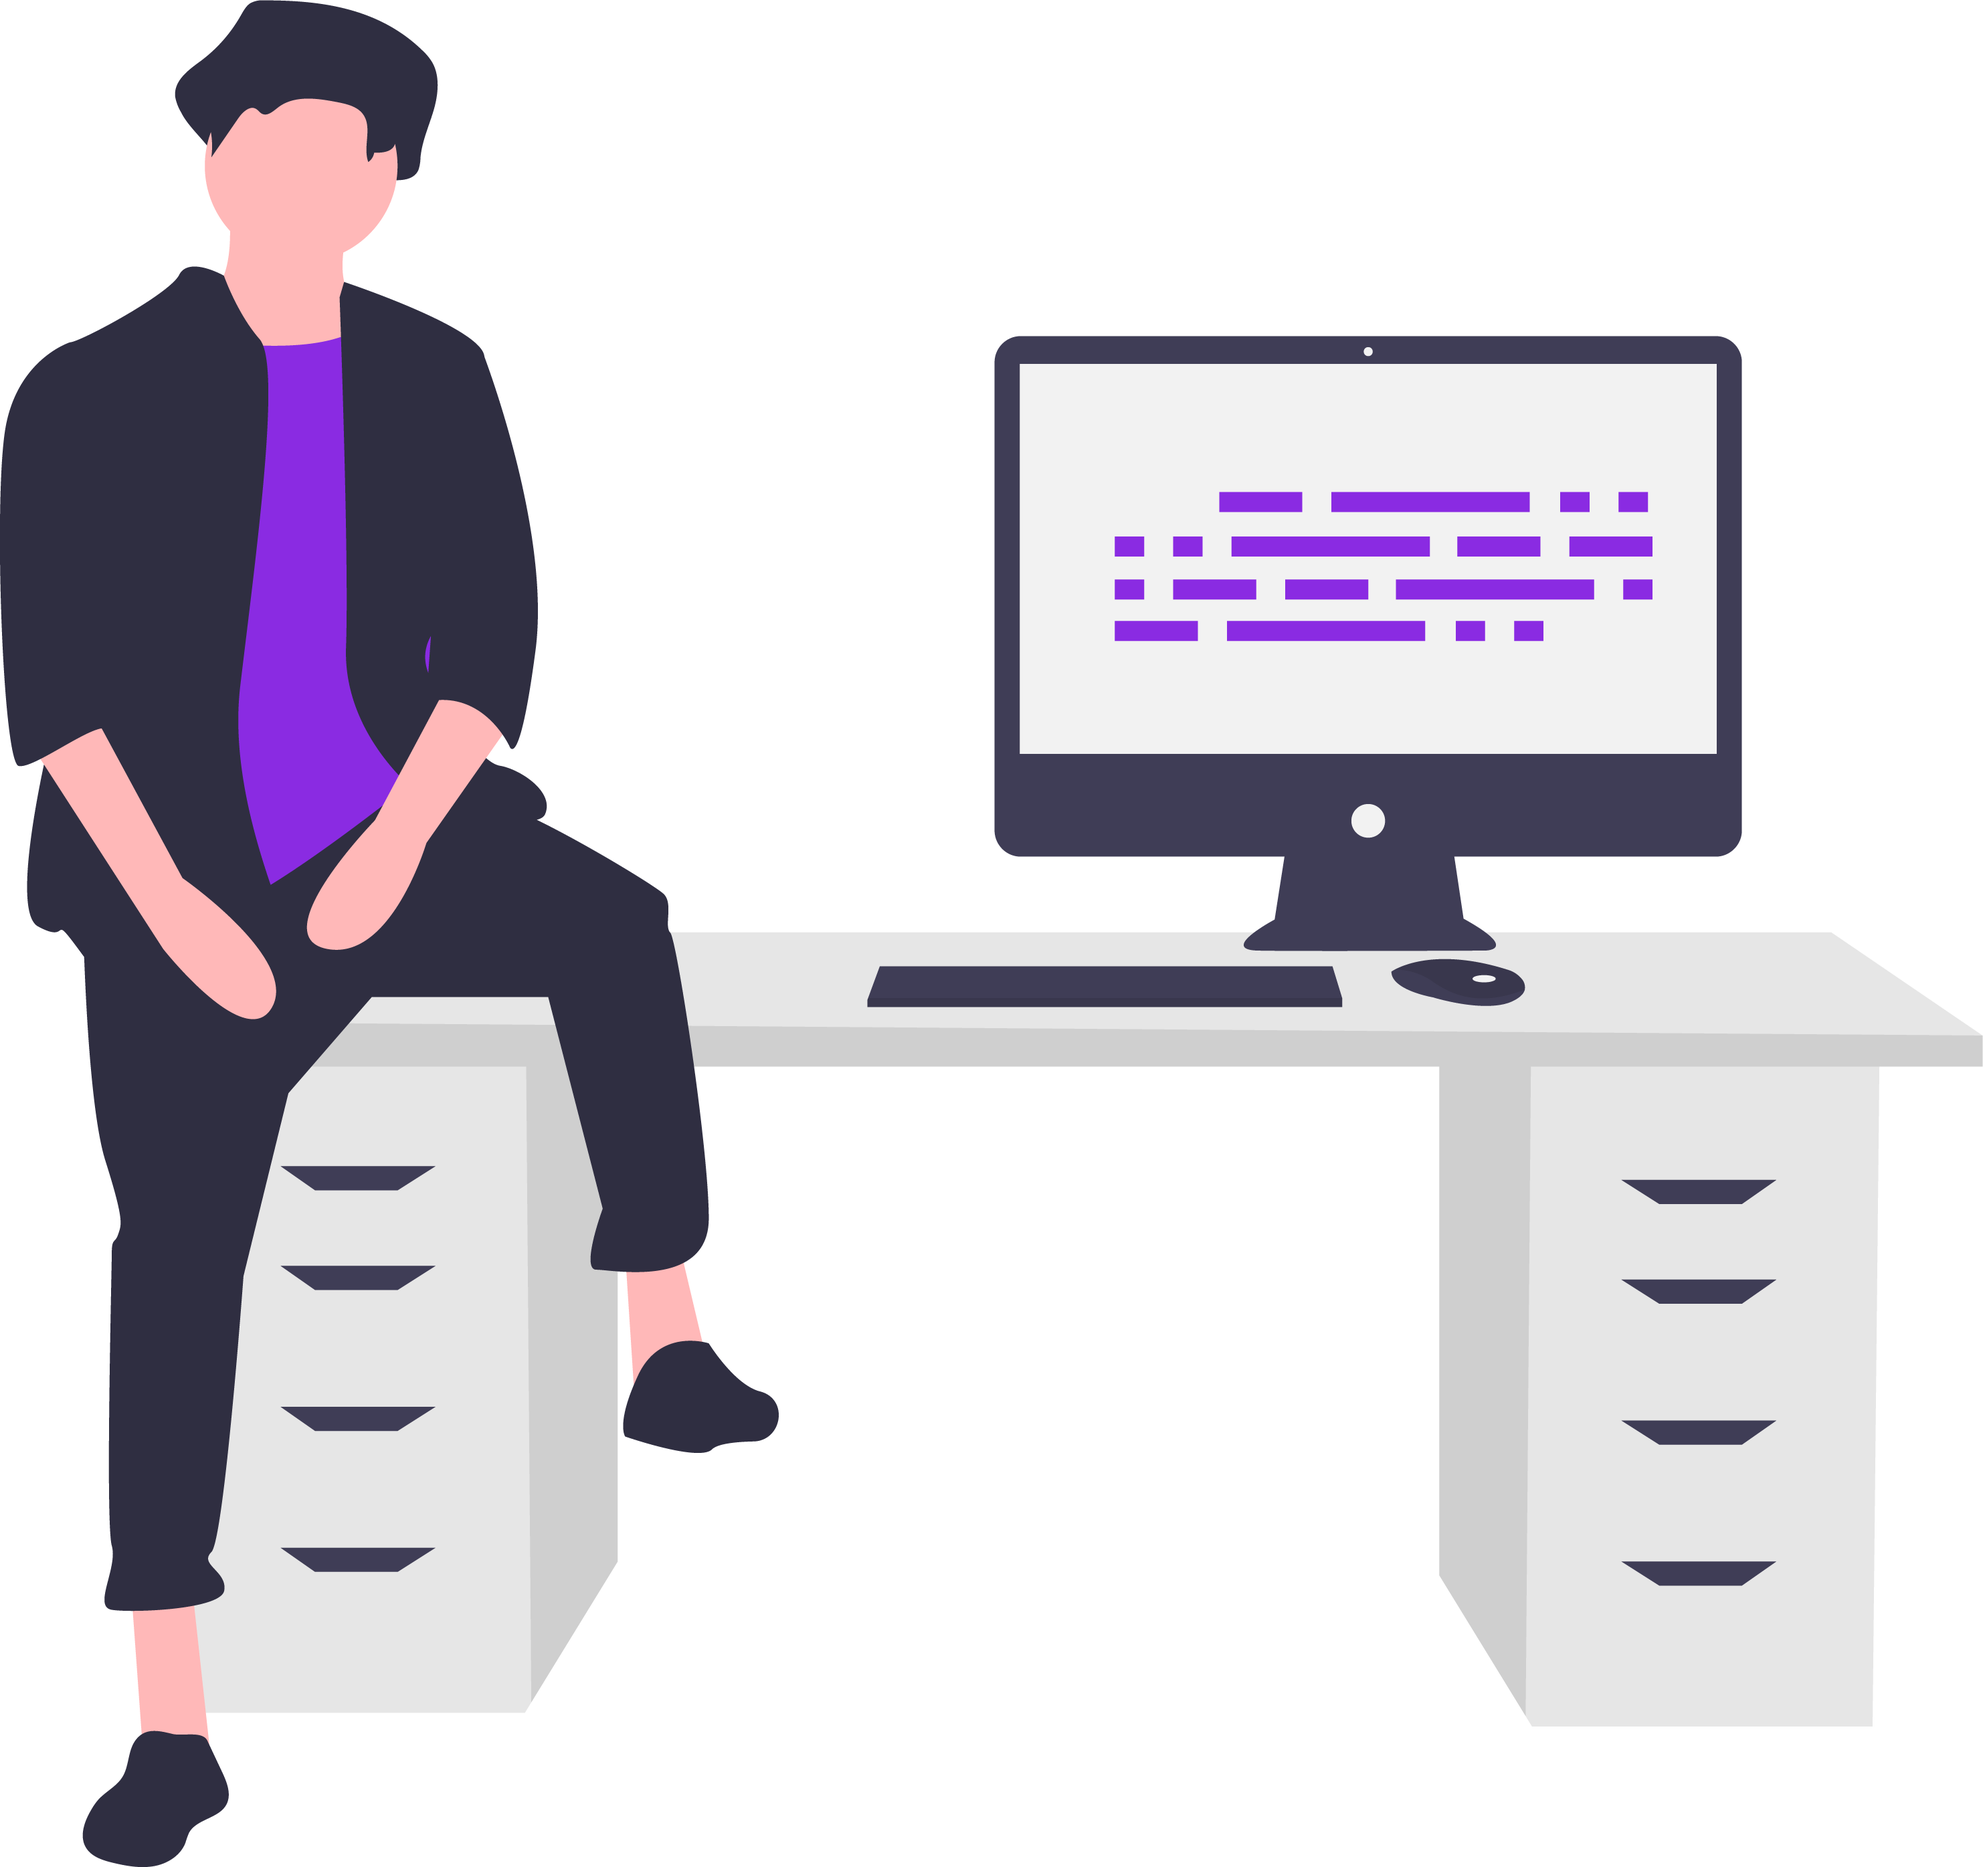
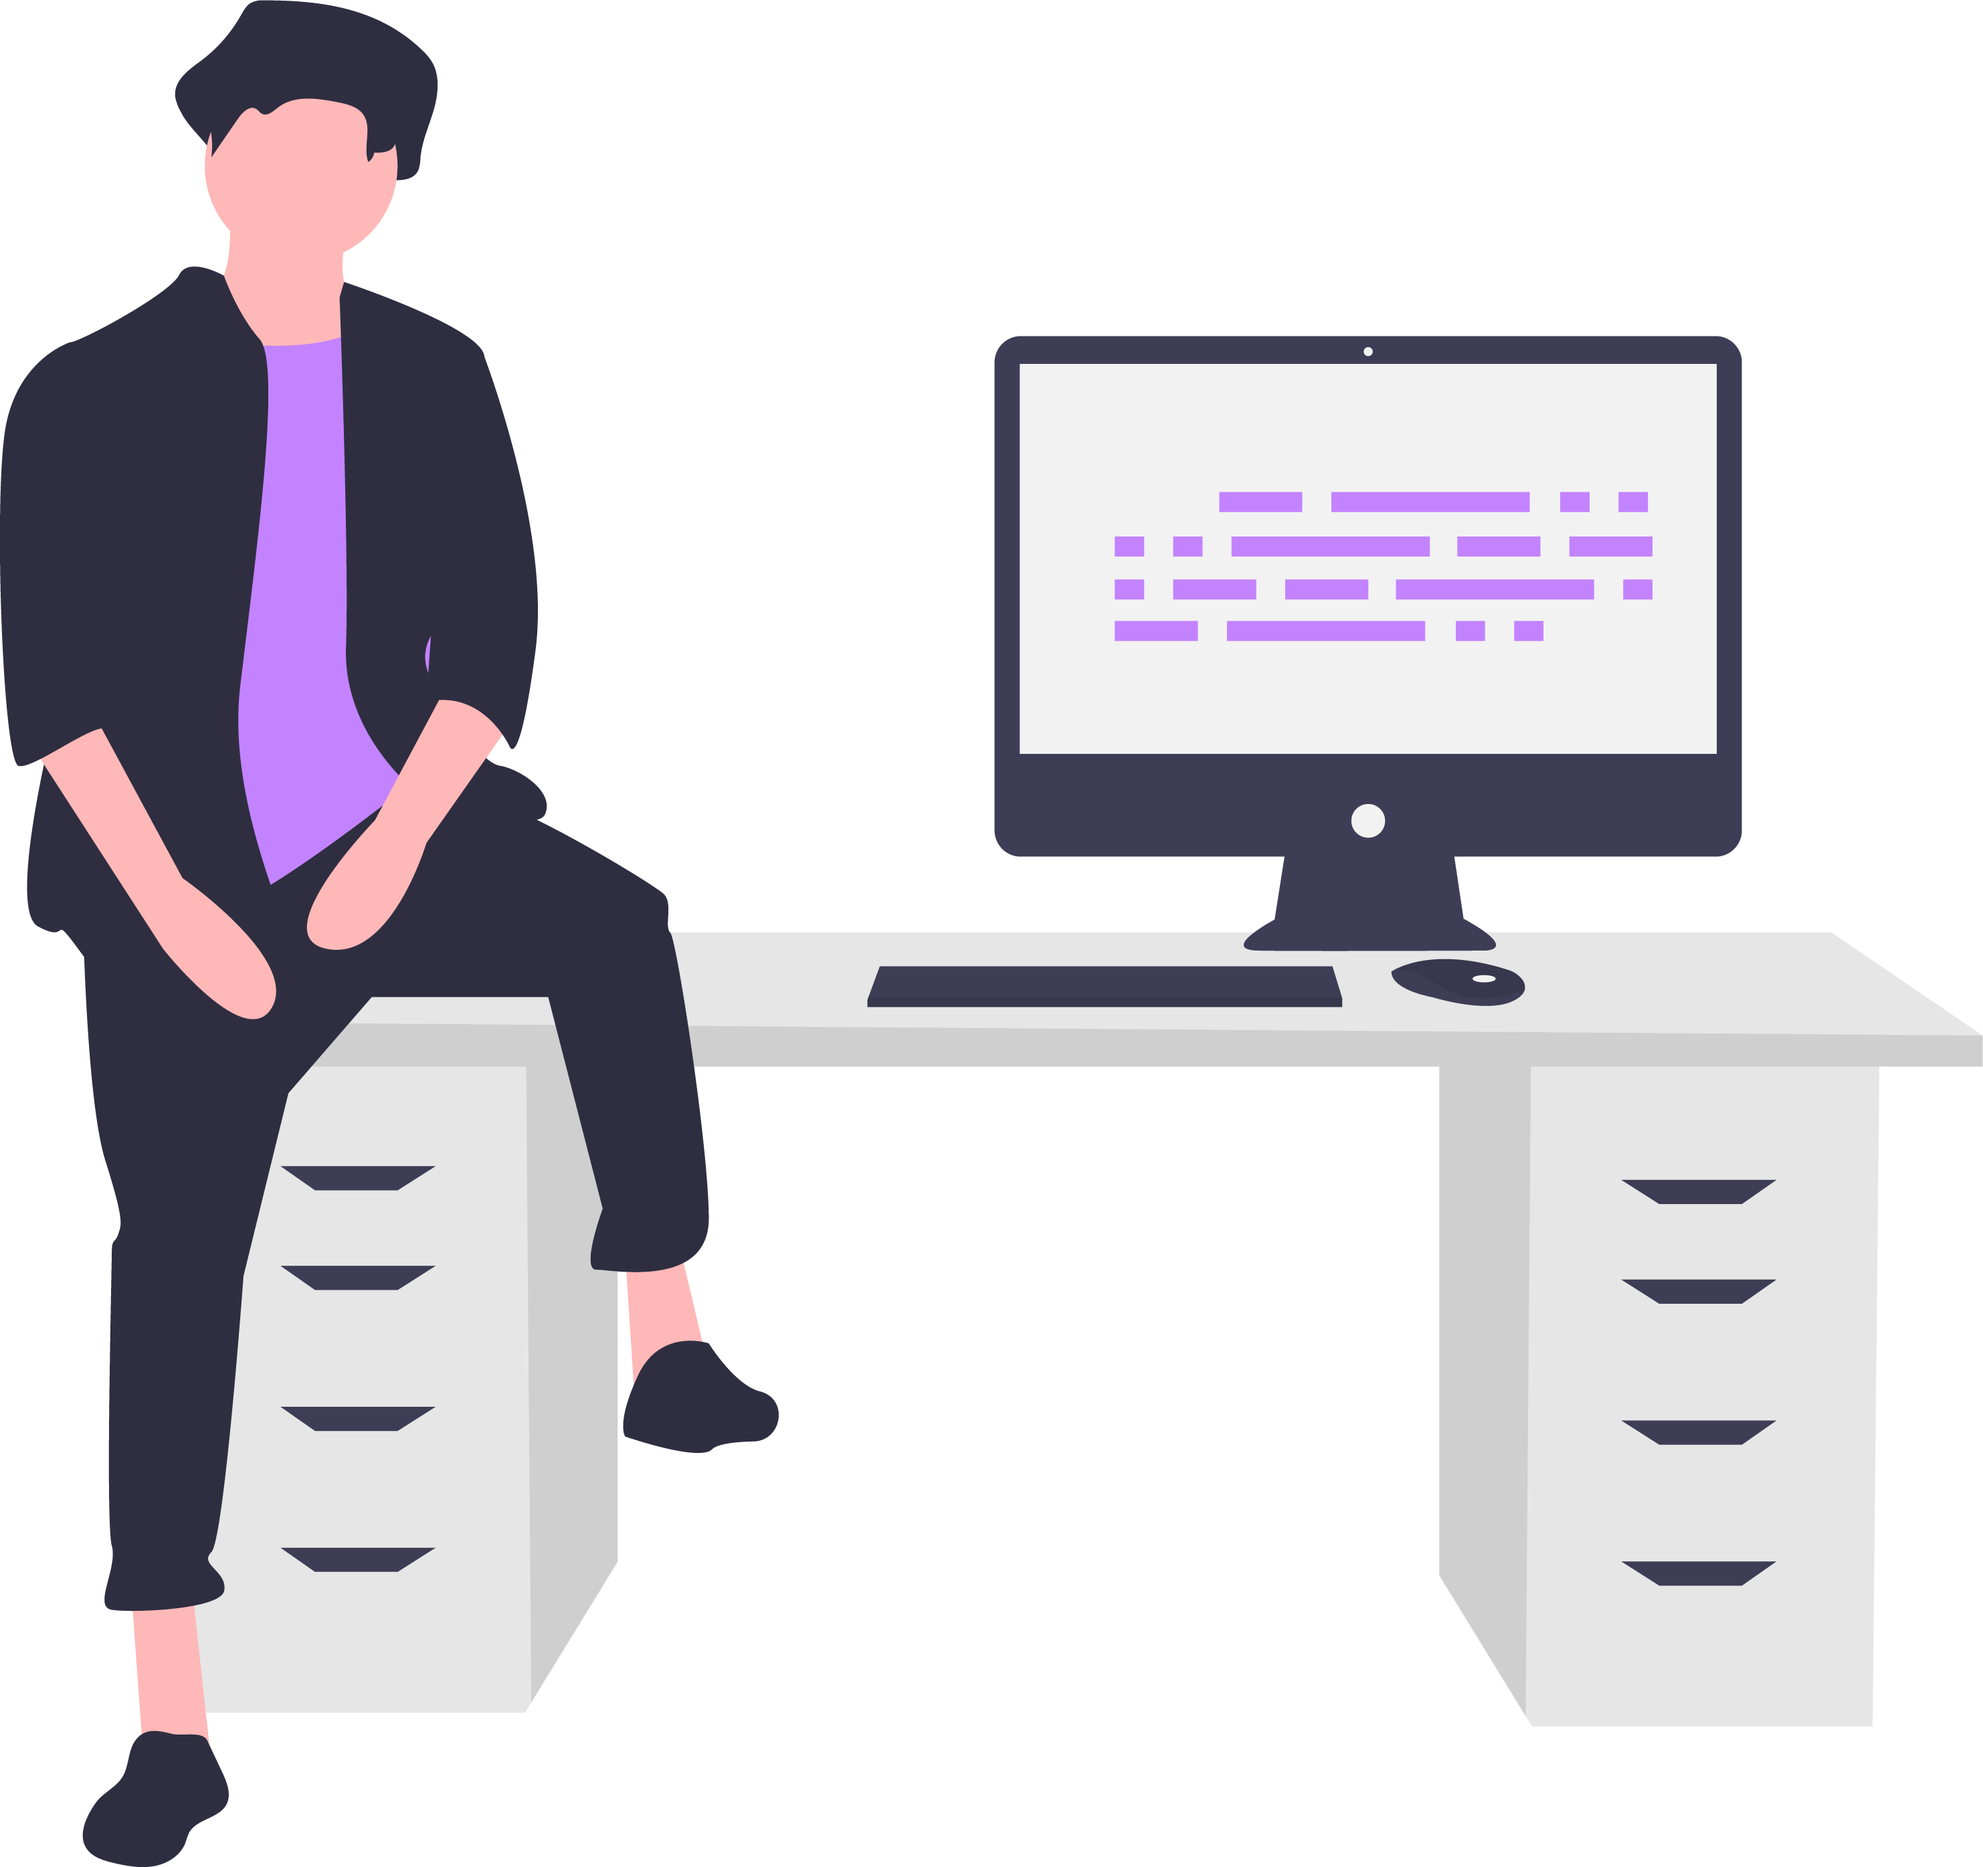
Dark mode 3.0

Changed region(s): [[0.5587, 0.2494, 0.8381, 0.3429], [0.0931, 0.187, 0.2173, 0.4676]]

diff --git a/assets/style.css b/assets/style.css
@@ -1,5 +1,10 @@
 html{
+    background-color: #202020 !important;
     font-family: 'Work Sans', sans-serif;    ;
+}
+
+.bg{
+    background-color: #202020 !important;
 }
 
 body .container{
@@ -8,7 +13,7 @@ body .container{
 }
 
 .navbar > .navbar-brand{
-    color: #8A2BE2 !important;
+    color: #c383ff !important;
     font-size: 25px;
 }
 
@@ -19,6 +24,7 @@ body .container{
 }
 
 .isi h1{
+    color: #b3b9c3 !important;
     animation: fade 3s;
     margin-top: 2em !important;
 }
@@ -26,21 +32,22 @@ body .container{
 .isi p{
     animation: fade 5s;
     margin-top: 20px;
-    color: #3f3f3f !important;
+    color: #abb4c3 !important;
 }
 
 .isi .link{
     animation: fade 7s;
     display: inline-block;
     margin-top: 20px;
-    color: white;
+    color: #202020;
     border-radius: 3px;
     text-decoration: none !important;
     padding: 10px;
-    background-color: #8A2BE2;
+    background-color: #c383ff;
 }
 
 .isi .link:hover{
+    color: #fff;
     background-color: #6521a5;
 }
 
@@ -61,6 +68,7 @@ body .container{
 }
 
 .isi .pdn{
+    color: #b3b9c5 !important;
     margin-top: 30px;
     font-size: 30px;
     font-weight: bold;
@@ -69,8 +77,12 @@ body .container{
 .isi .contact{
     font-size: 20px;
     font-weight: 400;
-    color: #8A2BE2 !important;
+    color: #5183f5 !important;
     text-decoration: none;
+}
+
+.isi .contact:hover{
+    color: #ffffff !important;
 }
 
 hr{
@@ -85,12 +97,26 @@ hr{
 }
 
 .ungu{
-    color: #8A2BE2 !important;
+    color: #c383ff !important;
 }
 
 a{
     text-decoration: none;
 }
+
+.daftar {
+    list-style: none;
+}
+  
+.daftar li::before{
+    content: "\2022";
+    color: #c383ff;
+    font-weight: bold;
+    position: absolute;
+    width: 1em;
+    margin-left: -1em;
+}
+
 
 @media(min-width:992px){
     /*

diff --git a/contact/index.html b/contact/index.html
@@ -16,10 +16,10 @@
         <title>Kontak Saya</title>
     </head>
 
-    <body>
+    <body class="bg">
 
         <div class="container">
-            <nav class="navbar navbar-expand-lg navbar-light">
+            <nav class="navbar navbar-expand-lg navbar-dark">
                 <a class="navbar-brand judul font-weight-bold" href="/">~/ronhyun</a>
                     <button class="navbar-toggler" type="button" data-toggle="collapse" data-target="#navbarNavDropdown" aria-controls="navbarNavDropdown" aria-expanded="false" aria-label="Toggle navigation">
                         <span class="navbar-toggler-icon"></span>
@@ -42,17 +42,17 @@
             <h1 class="w-75 pl-3 head">Kontak Saya</h1>
             <p class="w-75 pl-3 desc">Jika ingin menghubungi saya, silakan hubungi saya melalui: </p>
 
-            <ul class="w-75 pl-5">
+            <ul class="w-75 pl-5 daftar">
                 <li>
                     <a class="contact desc" target="_blank" href="mailto:ronhyun@protonmail.com">Email</a>
                 </li>
 
                 <li>
-                    <a class="contact" target="_blank" href="https://t.me/ronhyun">Telegram</a>
+                    <a class="contact desc" target="_blank" href="https://t.me/ronhyun">Telegram</a>
                 </li>
 
                 <li>
-                    <a class="contact" target="_blank" href="https://twitter.com/ronhyun_">Twitter</a>
+                    <a class="contact desc" target="_blank" href="https://twitter.com/ronhyun_">Twitter</a>
                 </li>
             </ul>
             <p class="pl-3 desc font-weight-bold">Mohon untuk tidak melakukan spam, terima kasih 😁</p>

diff --git a/about/index.html b/about/index.html
@@ -16,10 +16,10 @@
         <title>Tentang Saya</title>
     </head>
 
-    <body>
+    <body class="bg">
 
         <div class="container">
-            <nav class="navbar navbar-expand-lg navbar-light">
+            <nav class="navbar navbar-expand-lg navbar-dark">
                 <a class="navbar-brand judul font-weight-bold" href="/">~/ronhyun</a>
                     <button class="navbar-toggler" type="button" data-toggle="collapse" data-target="#navbarNavDropdown" aria-controls="navbarNavDropdown" aria-expanded="false" aria-label="Toggle navigation">
                         <span class="navbar-toggler-icon"></span>
@@ -47,7 +47,7 @@
         
             <h2 class="w-75 pl-3 pdn">Pendidikan</h2>
             <hr class="ml-3" align="left">
-            <ul class="pl-5">
+            <ul class="pl-5 daftar">
                 <li>
                     <p class="font-weight-bold">STMIK Dharma Putra</p>
                     <p>2019-2023</p>
@@ -61,14 +61,14 @@
 
             <h2 class="w-75 pl-3 pdn">Pengalaman Kerja</h2>
             <hr class="ml-3" align="left">
-            <ul class="pl-5">
+            <ul class="pl-5 daftar">
                 <li>
                     <p class="font-weight-bold">Belum ada.</p>
                 </li>
             </ul>
             <h2 class="w-75 pl-3 pdn ">Serba-Serbi yang Dipakai</h2>
             <hr class="ml-3" align="left">
-            <ul class="pl-5">
+            <ul class="pl-5 daftar">
                 <li>
                     <p>Text Editor: Visual Studio Code</p>
                 </li>

diff --git a/index.html b/index.html
@@ -19,7 +19,7 @@
     <body class="bg">
 
         <div class="container">
-            <nav class="navbar navbar-expand-lg navbar-light">
+            <nav class="navbar navbar-expand-lg navbar-dark">
                 <a class="navbar-brand judul font-weight-bold" href="/">~/ronhyun</a>
                     <button class="navbar-toggler" type="button" data-toggle="collapse" data-target="#navbarNavDropdown" aria-controls="navbarNavDropdown" aria-expanded="false" aria-label="Toggle navigation">
                         <span class="navbar-toggler-icon"></span>
@@ -41,7 +41,7 @@
         <div class="container isi">
             <div class="row">
               <div class="col-md-6">
-                <h1 class="w-75 ml-3 head">Halo, Saya <span class="ungu">Ronaldi Chandra</span></h1>
+                <h1 class="ml-3 head">Halo, Saya <span class="ungu">Ronaldi Chandra</span></h1>
                 <p class="w-75 ml-3 desc">Saya suka menulis kode tetapi terkadang tidak peka terhadap kode.</p>
                 <a class="link ml-3" href="about/">Selengkapnya tentang saya</a>
               </div>
